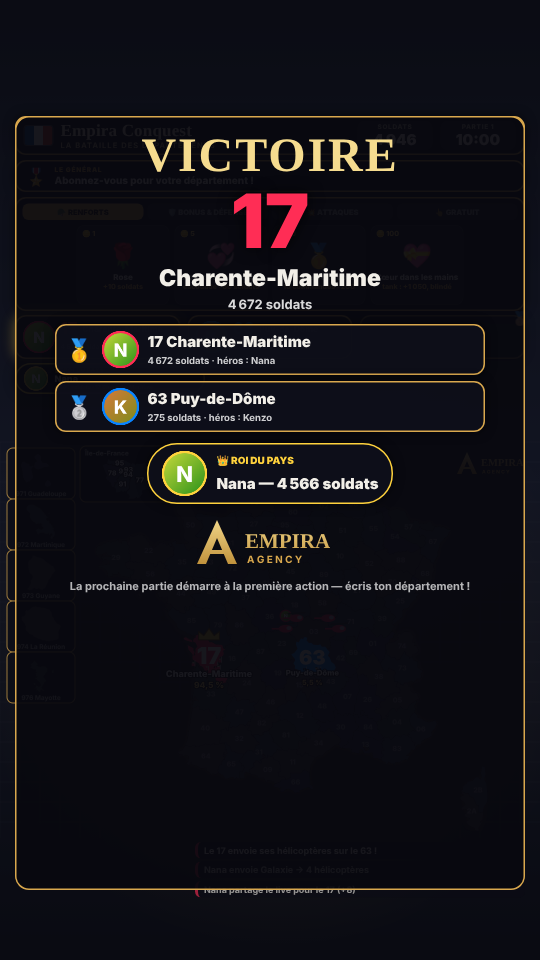
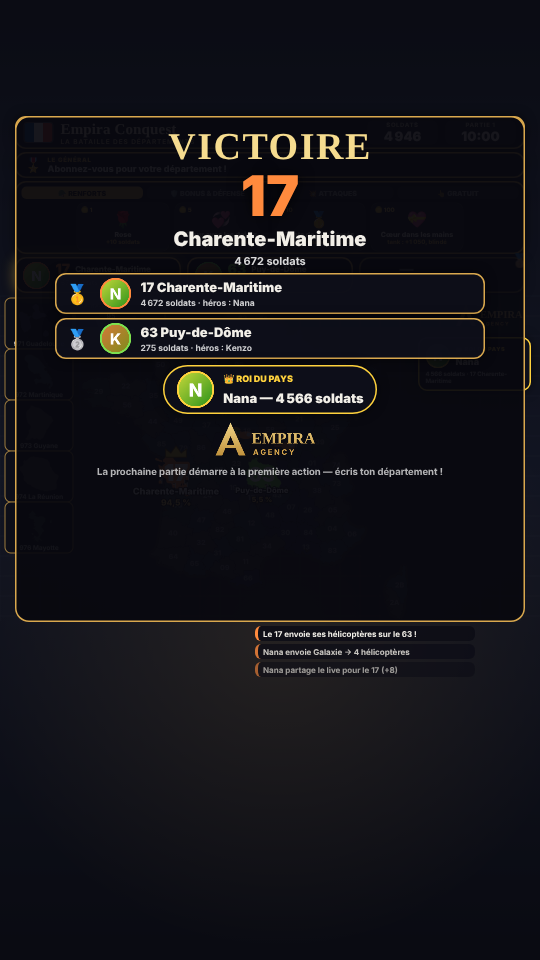
Disposition revue pour TikTok : la carte, le classement et les événements restent au-dessus des commentaires
- carte (outre-mer à gauche, logo, roi du pays et événements à droite) entre 590 et 1240 px sur 1920
- en-tête, bandeau du Général, catalogue des cadeaux et top 3 compactés
- podium au-dessus de la zone des commentaires ; fil des actions à droite, loin des cœurs
- capture avant/après avec une imitation de l'interface TikTok

Claude-Session: https://claude.ai/code/session_01NCuRgus5nC27Z2ujoNiFEU

diff --git a/produit/src/page.html b/produit/src/page.html
@@ -14,89 +14,89 @@ body { font-family: var(--police); color: #f2efe8; }
 #interface { position: absolute; inset: 0; pointer-events: none; }
 #interface > * { position: absolute; }
 .cadre { background: rgba(14, 15, 26, 0.88); border: 3px solid var(--contour); border-radius: 22px; box-shadow: 0 0 22px rgba(0, 0, 0, 0.55), inset 0 0 0 1px rgba(255, 255, 255, 0.04); }
-.entete { top: 232px; left: 30px; right: 30px; height: 78px; display: flex; align-items: center; gap: 16px; padding: 0 16px; }
+.entete { top: 232px; left: 30px; right: 30px; height: 66px; display: flex; align-items: center; gap: 16px; padding: 0 16px; }
 .drapeau { display: flex; width: 56px; height: 38px; border-radius: 6px; overflow: hidden; box-shadow: 0 0 0 2px rgba(255, 255, 255, 0.25); }
 .drapeau i { flex: 1; } .bleu { background: #0055a4; } .blanc { background: #fff; } .rouge { background: #ef4135; }
-.titre { flex: 1; font: 700 34px Georgia, 'Times New Roman', serif; color: #f6ead0; letter-spacing: 0.01em; white-space: nowrap; overflow: hidden; text-overflow: ellipsis; }
-.titre small { display: block; font: 600 15px/1.3 var(--police); letter-spacing: 0.14em; text-transform: uppercase; color: #d9c49a; }
-.case { min-width: 150px; text-align: center; background: rgba(255, 255, 255, 0.06); border-radius: 14px; padding: 4px 14px; }
-.case small { display: block; font: 800 13px/1.2 var(--police); letter-spacing: 0.1em; color: #bdb4a0; }
-.case b { font: 900 30px/1.15 var(--police); }
+.titre { flex: 1; font: 700 30px Georgia, 'Times New Roman', serif; color: #f6ead0; letter-spacing: 0.01em; white-space: nowrap; overflow: hidden; text-overflow: ellipsis; }
+.titre small { display: block; font: 600 13px/1.25 var(--police); letter-spacing: 0.14em; text-transform: uppercase; color: #d9c49a; }
+.case { min-width: 140px; text-align: center; background: rgba(255, 255, 255, 0.06); border-radius: 12px; padding: 2px 12px; }
+.case small { display: block; font: 800 12px/1.2 var(--police); letter-spacing: 0.1em; color: #bdb4a0; }
+.case b { font: 900 26px/1.15 var(--police); }
 .case b.urgent { color: #ff6b5b; }
-.general { top: 320px; left: 30px; right: 30px; height: 64px; display: grid; grid-template-columns: 46px 1fr; grid-template-rows: 18px 1fr; column-gap: 12px; align-items: center; padding: 6px 18px; }
-.general .medaille { grid-row: span 2; font-size: 34px; }
-.general small { font: 900 13px var(--police); letter-spacing: 0.12em; color: var(--contour); }
-.general p { margin: 0; font: 800 20px/1.15 var(--police); white-space: nowrap; overflow: hidden; text-overflow: ellipsis; }
+.general { top: 304px; left: 30px; right: 30px; height: 52px; display: grid; grid-template-columns: 36px 1fr; grid-template-rows: 15px 1fr; column-gap: 10px; align-items: center; padding: 4px 16px; }
+.general .medaille { grid-row: span 2; font-size: 28px; }
+.general small { font: 900 12px var(--police); letter-spacing: 0.12em; color: var(--contour); }
+.general p { margin: 0; font: 800 18px/1.15 var(--police); white-space: nowrap; overflow: hidden; text-overflow: ellipsis; }
 .general.alerte { border-color: #ffd23d; animation: pulse 1.2s infinite; }
-.cadeaux { top: 394px; left: 30px; right: 30px; height: 228px; padding: 10px 12px; }
+.cadeaux { top: 362px; left: 30px; right: 30px; height: 146px; padding: 8px 10px; }
 .onglets { display: flex; gap: 8px; }
-.onglets span { flex: 1; text-align: center; padding: 7px 4px; border-radius: 12px; font: 900 15px var(--police); background: rgba(255, 255, 255, 0.05); color: rgba(255, 255, 255, 0.55); }
+.onglets span { flex: 1; text-align: center; padding: 4px 4px; border-radius: 10px; font: 900 14px var(--police); background: rgba(255, 255, 255, 0.05); color: rgba(255, 255, 255, 0.55); }
 .onglets span.actif { background: var(--contour); color: #150f02; }
-.cartes { display: flex; gap: 10px; justify-content: center; margin-top: 10px; }
-.carte { position: relative; width: 186px; height: 160px; display: flex; flex-direction: column; align-items: center; justify-content: center; gap: 2px; padding: 8px; border-radius: 16px; background: rgba(255, 255, 255, 0.05); border: 1px solid rgba(255, 255, 255, 0.1); animation: entree 0.45s ease-out both; }
+.cartes { display: flex; gap: 10px; justify-content: center; margin-top: 7px; }
+.carte { position: relative; width: 186px; height: 98px; display: flex; flex-direction: column; align-items: center; justify-content: center; gap: 2px; padding: 8px; border-radius: 16px; background: rgba(255, 255, 255, 0.05); border: 1px solid rgba(255, 255, 255, 0.1); animation: entree 0.45s ease-out both; }
 .carte:nth-child(2) { animation-delay: 0.05s; } .carte:nth-child(3) { animation-delay: 0.1s; } .carte:nth-child(4) { animation-delay: 0.15s; } .carte:nth-child(5) { animation-delay: 0.2s; }
-.carte .icone { font-size: 48px; line-height: 64px; width: 64px; height: 64px; object-fit: contain; text-align: center; }
-.carte .prix { position: absolute; top: 6px; left: 10px; font: 800 14px var(--police); color: #ffd166; }
-.carte b { font: 800 16px/1.15 var(--police); text-align: center; }
-.carte .effet { font: 800 14px/1.15 var(--police); color: var(--contour); text-align: center; }
-.top3 { top: 630px; left: 30px; right: 30px; height: 88px; display: flex; gap: 14px; }
-.place { flex: 1; display: grid; grid-template-columns: 66px auto 1fr; grid-template-rows: 1fr 1fr; column-gap: 10px; align-items: center; padding: 6px 12px; min-width: 0; }
-.place .photo { grid-row: span 2; width: 66px; height: 66px; }
-.place .num { font: 900 32px/1 var(--police); }
-.place .nom { font: 800 17px var(--police); white-space: nowrap; overflow: hidden; text-overflow: ellipsis; }
-.place .det { grid-column: span 2; font: 700 14px var(--police); color: rgba(255, 255, 255, 0.75); white-space: nowrap; }
+.carte .icone { font-size: 32px; line-height: 40px; width: 40px; height: 40px; object-fit: contain; text-align: center; }
+.carte .prix { position: absolute; top: 5px; left: 8px; font: 800 12px var(--police); color: #ffd166; }
+.carte b { font: 800 14px/1.1 var(--police); text-align: center; }
+.carte .effet { font: 800 12px/1.1 var(--police); color: var(--contour); text-align: center; }
+.top3 { top: 514px; left: 30px; right: 30px; height: 72px; display: flex; gap: 12px; }
+.place { flex: 1; display: grid; grid-template-columns: 56px auto 1fr; grid-template-rows: 1fr 1fr; column-gap: 10px; align-items: center; padding: 6px 12px; min-width: 0; }
+.place .photo { grid-row: span 2; width: 56px; height: 56px; }
+.place .num { font: 900 28px/1 var(--police); }
+.place .nom { font: 800 16px var(--police); white-space: nowrap; overflow: hidden; text-overflow: ellipsis; }
+.place .det { grid-column: span 2; font: 700 13px var(--police); color: rgba(255, 255, 255, 0.75); white-space: nowrap; }
 .place .medaille { position: absolute; top: -10px; right: -6px; font-size: 26px; }
 .place.p0 { box-shadow: 0 0 26px rgba(255, 210, 61, 0.35); }
 .place.vide { opacity: 0.55; }
-.roi { top: 726px; left: 30px; width: 380px; height: 62px; display: grid; grid-template-columns: 52px 1fr; grid-template-rows: auto auto auto; column-gap: 10px; align-items: center; padding: 3px 14px; border-color: #ffd23d; border-radius: 31px; }
-.roi .photo { grid-row: span 3; width: 50px; height: 50px; }
+.roi { top: 674px; right: 18px; width: 226px; display: grid; grid-template-columns: 50px 1fr; grid-template-rows: auto auto auto; column-gap: 10px; row-gap: 2px; align-items: center; padding: 10px 12px; border-color: #ffd23d; border-radius: 18px; }
+.roi .photo { grid-row: span 2; width: 50px; height: 50px; }
 .roi small { font: 900 11px var(--police); letter-spacing: 0.1em; color: #ffd23d; }
 .roi b { font: 900 18px/1.05 var(--police); white-space: nowrap; overflow: hidden; text-overflow: ellipsis; }
-.roi span { font: 700 11px var(--police); color: rgba(255, 255, 255, 0.7); white-space: nowrap; overflow: hidden; text-overflow: ellipsis; }
-.mission, .evenement { display: none; padding: 10px 16px; }
-.mission { top: 796px; left: 30px; width: 380px; height: 84px; border-color: #22c55e; }
-.evenement { top: 726px; right: 30px; width: 640px; height: 154px; border-color: #ffd23d; }
+.roi span { grid-column: span 2; font: 700 12px/1.25 var(--police); color: rgba(255, 255, 255, 0.75); }
+.mission, .evenement { display: none; padding: 10px 12px; }
+.mission { top: 812px; right: 18px; width: 226px; border-color: #22c55e; }
+.evenement { top: 812px; right: 18px; width: 226px; border-color: #ffd23d; }
 .mission.montre, .evenement.montre { display: block; animation: entree 0.4s ease-out; }
-.tete { display: flex; justify-content: space-between; align-items: baseline; }
-.tete b { font: 900 22px var(--police); } .mission .tete b { font-size: 17px; }
-.tete .temps { font: 900 20px var(--police); color: #ffd166; }
-.mission p, .evenement p { margin: 4px 0; font: 700 17px/1.2 var(--police); }
+.tete { display: flex; flex-wrap: wrap; justify-content: space-between; align-items: baseline; gap: 2px 8px; }
+.tete b { font: 900 17px/1.15 var(--police); } .mission .tete b { font-size: 16px; }
+.tete .temps { font: 900 17px var(--police); color: #ffd166; }
+.mission p, .evenement p { margin: 6px 0; font: 700 14px/1.25 var(--police); }
 .mission p { font-size: 13px; }
 .barre { height: 16px; border-radius: 8px; overflow: hidden; background: rgba(0, 0, 0, 0.4); }
 .barre i { display: block; height: 100%; background: #22c55e; transition: width 0.3s; }
-.mission small, .evenement small { display: block; margin-top: 3px; font: 700 13px var(--police); color: rgba(255, 255, 255, 0.8); white-space: nowrap; overflow: hidden; text-overflow: ellipsis; }
+.mission small, .evenement small { display: block; margin-top: 4px; font: 700 12px/1.25 var(--police); color: rgba(255, 255, 255, 0.8); }
 .mission small { font-size: 11px; }
 .temps-barre { height: 5px; margin-top: 6px; border-radius: 3px; background: rgba(0, 0, 0, 0.35); }
 .temps-barre i { display: block; height: 100%; background: #ffd166; border-radius: 3px; }
-.vague { top: 892px; left: 50%; transform: translateX(-50%); display: none; padding: 8px 24px; border-radius: 30px; background: linear-gradient(90deg, #ff8a00, #ffd23d); color: #1a1000; font: 900 26px var(--police); white-space: nowrap; box-shadow: 0 0 24px rgba(255, 180, 0, 0.6); }
+.vague { top: 604px; left: 50%; transform: translateX(-50%); display: none; padding: 8px 24px; border-radius: 30px; background: linear-gradient(90deg, #ff8a00, #ffd23d); color: #1a1000; font: 900 26px var(--police); white-space: nowrap; box-shadow: 0 0 24px rgba(255, 180, 0, 0.6); }
 .vague.montre { display: block; animation: pulse 1s infinite; }
-.fil { top: 1684px; right: 30px; width: 660px; display: flex; flex-direction: column; gap: 6px; }
-.fil .ligne { background: rgba(12, 13, 22, 0.88); border-left: 6px solid var(--contour); border-radius: 12px; padding: 6px 12px; font: 700 18px var(--police); white-space: nowrap; overflow: hidden; text-overflow: ellipsis; animation: glisse 0.35s ease-out; }
+.fil { top: 1252px; right: 130px; width: 440px; display: flex; flex-direction: column; gap: 6px; }
+.fil .ligne { background: rgba(12, 13, 22, 0.88); border-left: 6px solid var(--contour); border-radius: 12px; padding: 5px 10px; font: 700 16px var(--police); white-space: nowrap; overflow: hidden; text-overflow: ellipsis; animation: glisse 0.35s ease-out; }
 .fil .ligne:nth-child(2) { opacity: 0.8; } .fil .ligne:nth-child(3) { opacity: 0.6; }
-.annonce { top: 1170px; left: 70px; right: 70px; padding: 18px 24px; text-align: center; font: 900 38px/1.15 var(--police); opacity: 0; transform: scale(0.6); transition: opacity 0.25s, transform 0.35s cubic-bezier(.2, 1.6, .4, 1); }
+.annonce { top: 840px; left: 60px; right: 60px; padding: 16px 22px; text-align: center; font: 900 34px/1.15 var(--police); opacity: 0; transform: scale(0.6); transition: opacity 0.25s, transform 0.35s cubic-bezier(.2, 1.6, .4, 1); }
 .annonce.montre { opacity: 1; transform: scale(1); }
-.attente { top: 1150px; left: 100px; right: 100px; display: none; text-align: center; padding: 24px; border-radius: 26px; background: rgba(10, 11, 18, 0.85); border: 2px dashed var(--contour); }
+.attente { top: 800px; left: 100px; right: 100px; display: none; text-align: center; padding: 24px; border-radius: 26px; background: rgba(10, 11, 18, 0.85); border: 2px dashed var(--contour); }
 .attente.montre { display: block; animation: pulse 2s infinite; }
 .attente h2 { margin: 0 0 8px; font: 700 36px/1.2 Georgia, serif; color: #f6dc8f; }
 .attente p { margin: 0; font: 700 20px var(--police); color: rgba(255, 255, 255, 0.75); }
-.etat { top: 1640px; left: 30px; display: none; padding: 6px 12px; border-radius: 10px; background: rgba(130, 20, 20, 0.88); font: 700 16px var(--police); }
+.etat { top: 186px; left: 30px; display: none; padding: 6px 12px; border-radius: 10px; background: rgba(130, 20, 20, 0.88); font: 700 16px var(--police); }
 .etat.montre { display: block; }
-.podium { top: 232px; left: 30px; right: 30px; bottom: 140px; display: none; flex-direction: column; align-items: center; gap: 10px; padding: 26px; border-radius: 28px; background: rgba(8, 9, 15, 0.94); border: 3px solid var(--contour); }
+.podium { top: 232px; left: 30px; right: 30px; bottom: 676px; display: none; flex-direction: column; align-items: center; gap: 6px; padding: 18px 26px; border-radius: 28px; background: rgba(8, 9, 15, 0.94); border: 3px solid var(--contour); }
 .podium.montre { display: flex; animation: entree 0.6s ease-out; }
-.podium h1 { margin: 0; font: 700 96px/1 Georgia, serif; color: #f6dc8f; letter-spacing: 0.04em; }
-.podium .gagnant { font: 900 150px/1 var(--police); text-shadow: 0 0 30px rgba(0, 0, 0, 0.8); }
-.podium h2 { margin: 0; font: 900 46px var(--police); }
-.podium > p { margin: 0; font: 700 26px var(--police); color: rgba(255, 255, 255, 0.85); }
-.podium .liste { display: flex; flex-direction: column; gap: 12px; width: 860px; margin-top: 14px; }
-.podium .ligne { display: grid; grid-template-columns: 60px 80px 1fr; grid-template-rows: auto auto; column-gap: 12px; align-items: center; padding: 10px 18px; }
-.podium .ligne .medaille { grid-row: span 2; font-size: 44px; }
-.podium .ligne .photo { grid-row: span 2; width: 76px; height: 76px; }
-.podium .ligne b { font: 900 30px var(--police); } .podium .ligne small { font: 700 19px var(--police); color: rgba(255, 255, 255, 0.8); }
-.podium .roi-final { display: grid; grid-template-columns: 96px 1fr; column-gap: 14px; align-items: center; padding: 12px 26px; margin-top: 12px; border-color: #ffd23d; border-radius: 60px; }
-.podium .roi-final .photo { grid-row: span 2; width: 92px; height: 92px; }
-.podium .roi-final small { font: 900 20px var(--police); color: #ffd23d; } .podium .roi-final b { font: 900 30px var(--police); }
-.podium .logo { width: 300px; height: 120px; margin-top: 10px; }
-.podium .suite { font-size: 22px; color: rgba(255, 255, 255, 0.7); }
+.podium h1 { margin: 0; font: 700 76px/1 Georgia, serif; color: #f6dc8f; letter-spacing: 0.04em; }
+.podium .gagnant { font: 900 112px/1 var(--police); text-shadow: 0 0 30px rgba(0, 0, 0, 0.8); }
+.podium h2 { margin: 0; font: 900 40px var(--police); }
+.podium > p { margin: 0; font: 700 22px var(--police); color: rgba(255, 255, 255, 0.85); }
+.podium .liste { display: flex; flex-direction: column; gap: 8px; width: 860px; margin-top: 6px; }
+.podium .ligne { display: grid; grid-template-columns: 56px 70px 1fr; grid-template-rows: auto auto; column-gap: 12px; align-items: center; padding: 6px 18px; }
+.podium .ligne .medaille { grid-row: span 2; font-size: 38px; }
+.podium .ligne .photo { grid-row: span 2; width: 64px; height: 64px; }
+.podium .ligne b { font: 900 26px var(--police); } .podium .ligne small { font: 700 17px var(--police); color: rgba(255, 255, 255, 0.8); }
+.podium .roi-final { display: grid; grid-template-columns: 80px 1fr; column-gap: 14px; align-items: center; padding: 8px 24px; margin-top: 6px; border-color: #ffd23d; border-radius: 60px; }
+.podium .roi-final .photo { grid-row: span 2; width: 76px; height: 76px; }
+.podium .roi-final small { font: 900 18px var(--police); color: #ffd23d; } .podium .roi-final b { font: 900 26px var(--police); }
+.podium .logo { width: 225px; height: 90px; margin-top: 2px; }
+.podium .suite { font-size: 19px; color: rgba(255, 255, 255, 0.7); }
 #licence { position: absolute; inset: 0; display: none; align-items: center; justify-content: center; text-align: center; padding: 80px; background: rgba(5, 6, 10, 0.96); }
 #licence.montre { display: flex; }
 #licence h2 { font: 700 54px Georgia, serif; color: #f6dc8f; }

diff --git a/produit/src/rendu.js b/produit/src/rendu.js
@@ -8,14 +8,15 @@ export { dessinerLogo };
 
 export const LARGEUR = 1080;
 export const HAUTEUR = 1920;
-// Zone de la carte (sous l'interface, au-dessus du fil des actions)
-const ZONE = { haut: 884, bas: 1676 };
-const ECHELLE = 0.8;
-const X0 = 175;
-const Y0 = 892;
-const OUTREMER = { '971': 900, '972': 1002, '973': 1104, '974': 1206, '976': 1308 };
-const CASE = { x: 18, l: 128, h: 94 };
-const IDF = { x: 160, y: 892, l: 196, h: 112, codes: ['75', '77', '78', '91', '92', '93', '94', '95'] };
+// Zone de la carte : sous l'interface et AU-DESSUS des commentaires de TikTok (qui couvrent le bas de l'écran,
+// à partir d'environ 65 % de la hauteur). Colonne de gauche : outre-mer ; colonne de droite : logo, roi, événements.
+const ZONE = { haut: 592, bas: 1242 };
+const ECHELLE = 0.665;
+const X0 = 150;
+const Y0 = 598;
+const OUTREMER = { '971': 600, '972': 702, '973': 804, '974': 906, '976': 1008 };
+const CASE = { x: 14, l: 128, h: 94 };
+const IDF = { x: 150, y: 598, l: 180, h: 108, codes: ['75', '77', '78', '91', '92', '93', '94', '95'] };
 const PARTICULES_MAX = 700;
 const POLICE = "'Segoe UI', system-ui, -apple-system, Roboto, sans-serif";
 const EMOJI = "'Segoe UI Emoji', 'Apple Color Emoji', 'Noto Color Emoji', sans-serif";
@@ -429,7 +430,7 @@ export class Rendu {
     this.#etiquettes(); // les numéros et le top 3 restent lisibles par-dessus les unités
     this.#effets();
     ctx.restore();
-    this.#logo(1062, 900, 'droite');
+    this.#logo(1060, 604, 'droite');
     if (this.flash > 0) {
       ctx.fillStyle = `rgba(255,250,235,${this.flash})`;
       ctx.fillRect(0, ZONE.haut, LARGEUR, ZONE.bas - ZONE.haut);

diff --git a/produit/src/logo.js b/produit/src/logo.js
@@ -1,5 +1,5 @@
 // Logo Empira : « A » doré en chevron et « EMPIRA AGENCY », ou l'image images/logo-empira.png si elle est fournie.
-// Il est toujours affiché (en haut à droite de la carte et sous le podium) et ne peut pas être masqué.
+// Il est toujours affiché (en haut de la colonne de droite, à côté de la carte, et sous le podium) et ne peut pas être masqué.
 
 const POLICE = "'Segoe UI', system-ui, -apple-system, Roboto, sans-serif";
 
